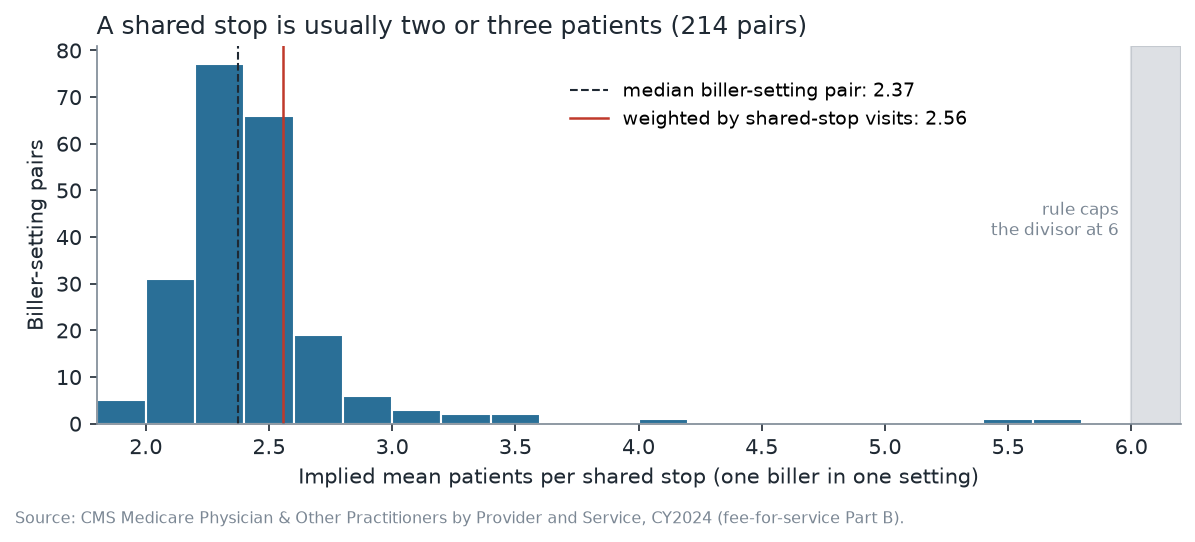
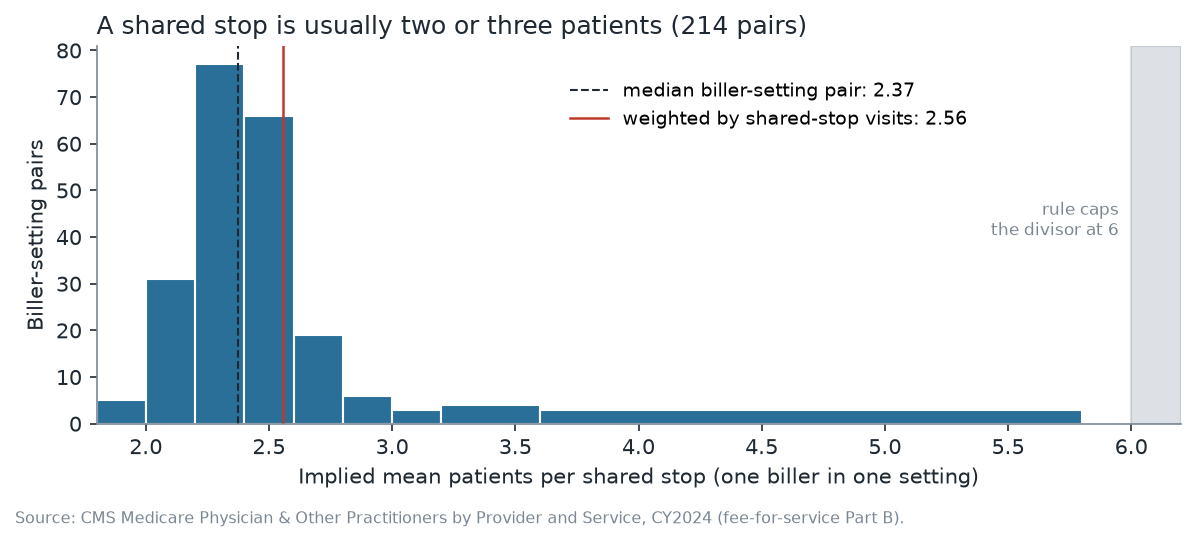
Small cells: merge figure 2 bins of one or two pairs; drop lines_high from the outputs
Figure 2's 0.2-wide bins now merge into their neighbours until each holds at
least three biller-setting pairs (merge_sparse_bins, tested on synthetic values
and on the snapshot). The concentration deciles no longer return lines_high,
which for the top decile is the largest biller's count; the notebook's decile
table prints each decile's lower bound instead. Figures 1 and 3 are unchanged.

Changed region(s): [[0.3715, 0.738, 0.8979, 0.797]]

diff --git a/src/cms_transport/analysis.py b/src/cms_transport/analysis.py
@@ -252,6 +252,29 @@ def stop_sizes(df: pd.DataFrame) -> dict:
     }
 
 
+def merge_sparse_bins(values, edges: list[float], min_count: int = 3) -> list[float]:
+    """Histogram edges with no bin holding between 1 and ``min_count - 1`` values.
+
+    Walks the fixed edges left to right and closes a bin only once it holds at
+    least ``min_count`` values, so a sparse bin is merged into its neighbours.
+    A sparse remainder at the right end joins the last closed bin. A bin of a
+    handful of pairs would let a reader pick out one biller's value.
+    """
+    counts, _ = np.histogram(values, bins=edges)
+    out, run = [edges[0]], 0
+    for i, n in enumerate(counts):
+        run += int(n)
+        if run >= min_count:
+            out.append(edges[i + 1])
+            run = 0
+    if out[-1] != edges[-1]:
+        if run == 0 or len(out) == 1:
+            out.append(edges[-1])
+        else:
+            out[-1] = edges[-1]
+    return out
+
+
 def solo_share_of_trips(df: pd.DataFrame, patients_per_shared_stop: float) -> float:
     """Visits are not trips: a shared stop is one trip to a location for several visits.
 
@@ -298,8 +321,10 @@ def concentration(df: pd.DataFrame) -> dict:
                 "billers": len(s),
                 "share_of_lines": s.lines.sum() / tl,
                 "share_of_dollars": s.dollars.sum() / td,
+                # The smallest biller's lines bound the decile from below. The
+                # largest is not reported: in the first decile it is the single
+                # largest biller's count.
                 "lines_low": int(s.lines.min()),
-                "lines_high": int(s.lines.max()),
             }
         )
     small = b[b.lines < 1000]

diff --git a/tests/test_analysis.py b/tests/test_analysis.py
@@ -78,3 +78,30 @@ def test_headline_figures(df):
     assert c["lines"] == s["solo_lines"] + s["shared_lines"]
     assert c["deciles"].share_of_lines.sum() == pytest.approx(1.0)
     assert c["deciles"].billers.sum() == 287
+
+
+def bin_counts(values, edges):
+    return np.histogram(values, bins=edges)[0]
+
+
+def test_sparse_bins_merge_into_their_neighbours():
+    edges = [x / 10 for x in range(18, 62, 2)]
+    values = [2.05] * 5 + [3.3, 3.5, 4.1, 5.5, 5.7]
+    merged = A.merge_sparse_bins(values, edges)
+    counts = bin_counts(values, merged)
+    assert merged[0] == edges[0] and merged[-1] == edges[-1]
+    assert all(b > a for a, b in zip(merged, merged[1:]))
+    assert counts.sum() == len(values)
+    assert not ((counts > 0) & (counts < 3)).any(), counts
+
+
+def test_figure_two_has_no_bin_below_three_pairs(df):
+    used = A.stop_sizes(df)["used"]
+    merged = A.merge_sparse_bins(used.implied, [x / 10 for x in range(18, 62, 2)])
+    counts = bin_counts(used.implied, merged)
+    assert counts.sum() == len(used)
+    assert not ((counts > 0) & (counts < 3)).any(), counts
+
+
+def test_deciles_do_not_report_the_largest_biller(df):
+    assert "lines_high" not in A.concentration(df)["deciles"].columns

diff --git a/src/cms_transport/charts.py b/src/cms_transport/charts.py
@@ -7,6 +7,8 @@ from pathlib import Path
 import matplotlib.pyplot as plt
 import pandas as pd
 
+from cms_transport.analysis import merge_sparse_bins
+
 INK = "#1f2933"
 MUTED = "#7b8794"
 SOLO_C = "#2a6f97"
@@ -66,7 +68,9 @@ def solo_vs_shared(solo_lines: int, shared_lines: int, trip_solo_share: float, p
 def stop_size_distribution(used: pd.DataFrame, median: float, weighted: float, path=None):
     """Finding 2: implied patients per shared stop across biller-setting pairs."""
     fig, ax = plt.subplots(figsize=(8, 3.6))
-    bins = [x / 10 for x in range(18, 62, 2)]
+    # 0.2-wide bins, except that a bin holding one or two pairs is merged into
+    # its neighbours, so every bar is at least three biller-setting pairs.
+    bins = merge_sparse_bins(used.implied, [x / 10 for x in range(18, 62, 2)])
     ax.hist(used.implied, bins=bins, color=SOLO_C, edgecolor="white")
     ax.axvline(median, color=INK, linestyle="--", linewidth=1, label=f"median biller-setting pair: {median:.2f}")
     ax.axvline(weighted, color=ACCENT, linestyle="-", linewidth=1.2, label=f"weighted by shared-stop visits: {weighted:.2f}")

diff --git a/README.md b/README.md
@@ -82,6 +82,8 @@ From those two codes:
 ![Implied patients per shared stop](figures/2-stop-size.png)
 ![Share of transport visits by biller decile](figures/3-concentration.png)
 
+Small cells: figure 2 merges any bin of one or two biller-setting pairs into its neighbours, so every bar holds at least three. The outputs also drop `lines_high`, because in the top decile it is the largest biller's count.
+
 **Limitations.** These travel with every finding and are spelled out in the
 notebook:
 
